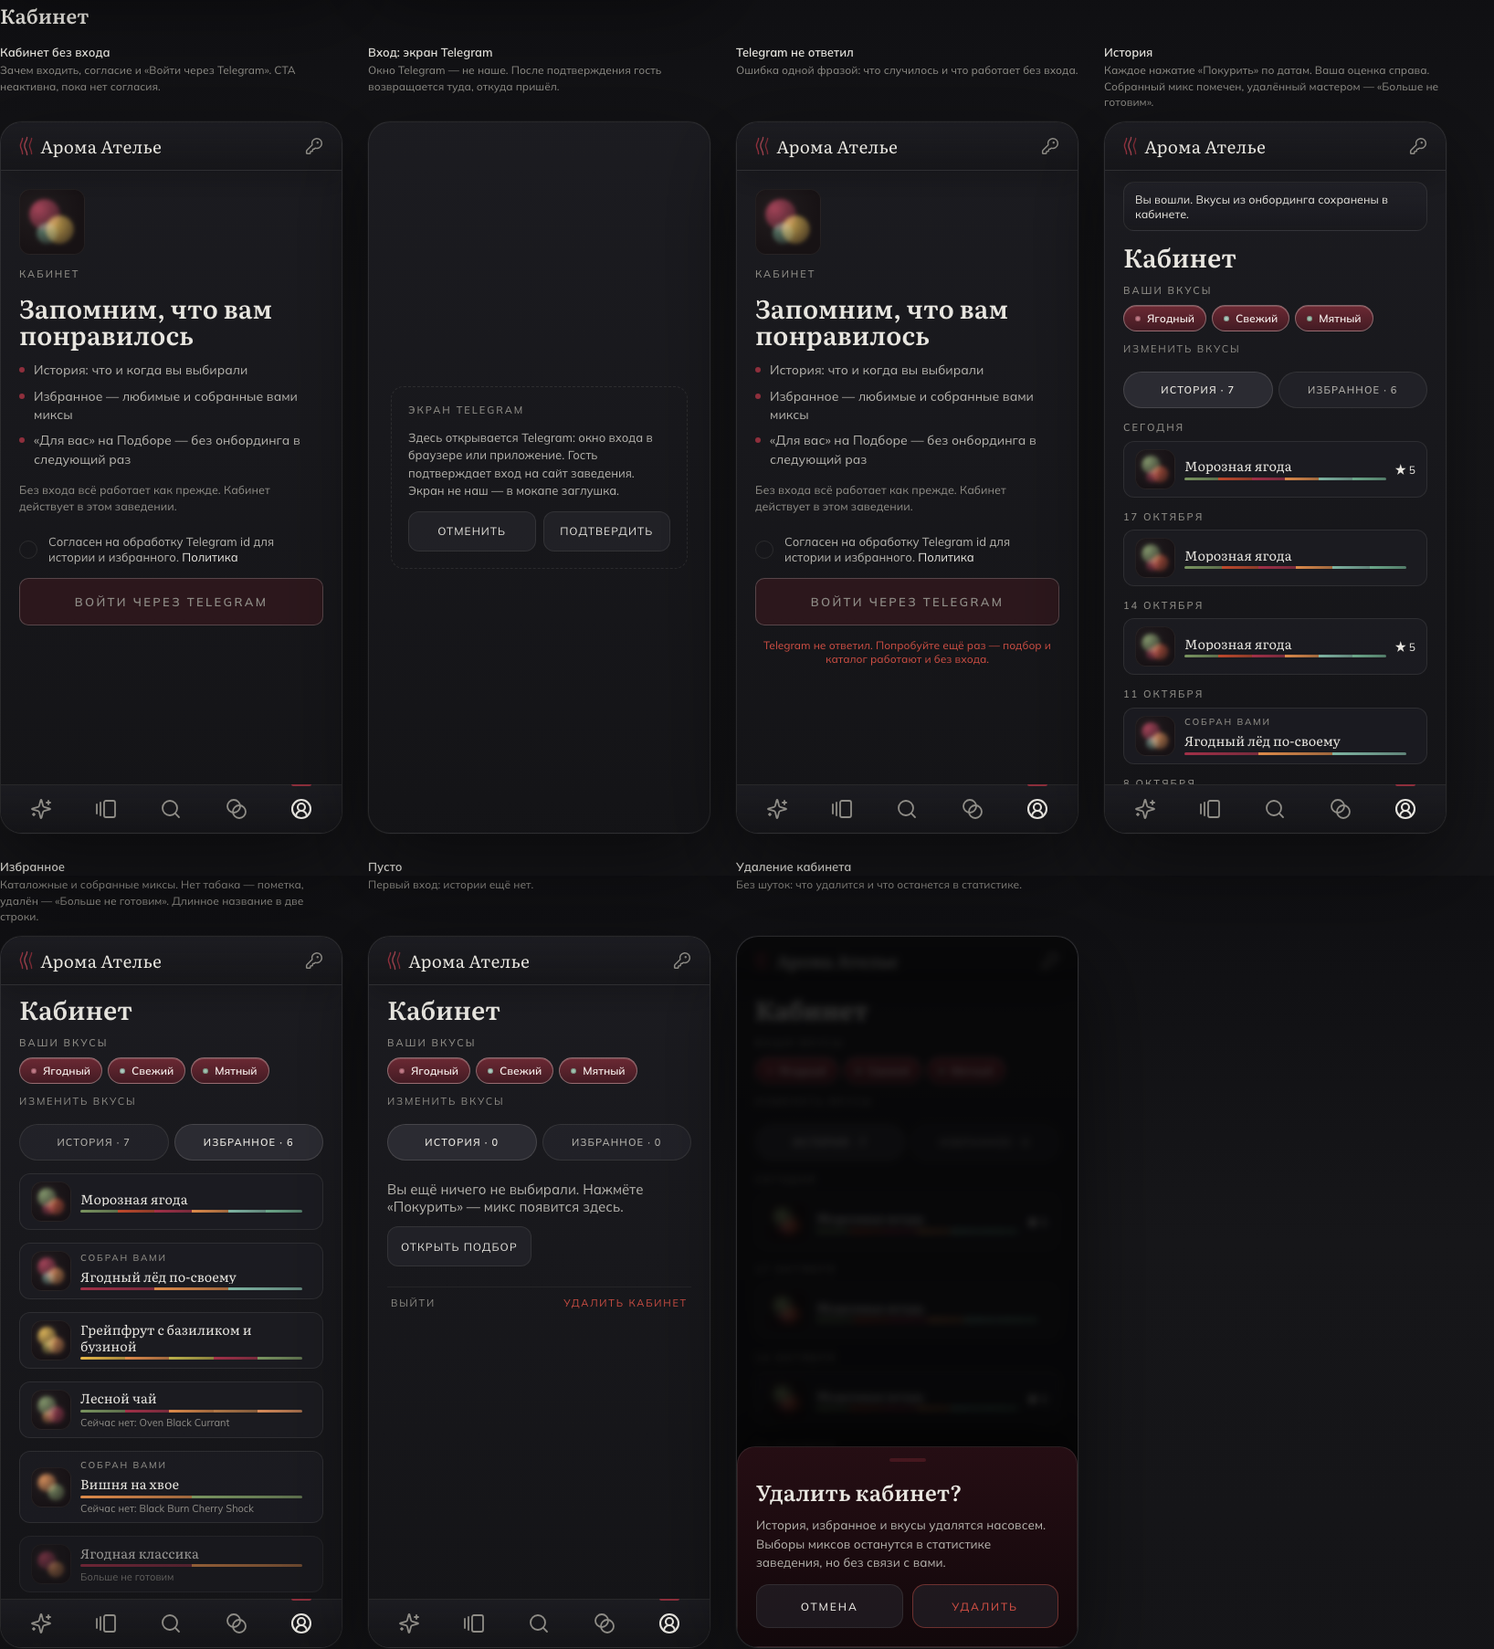
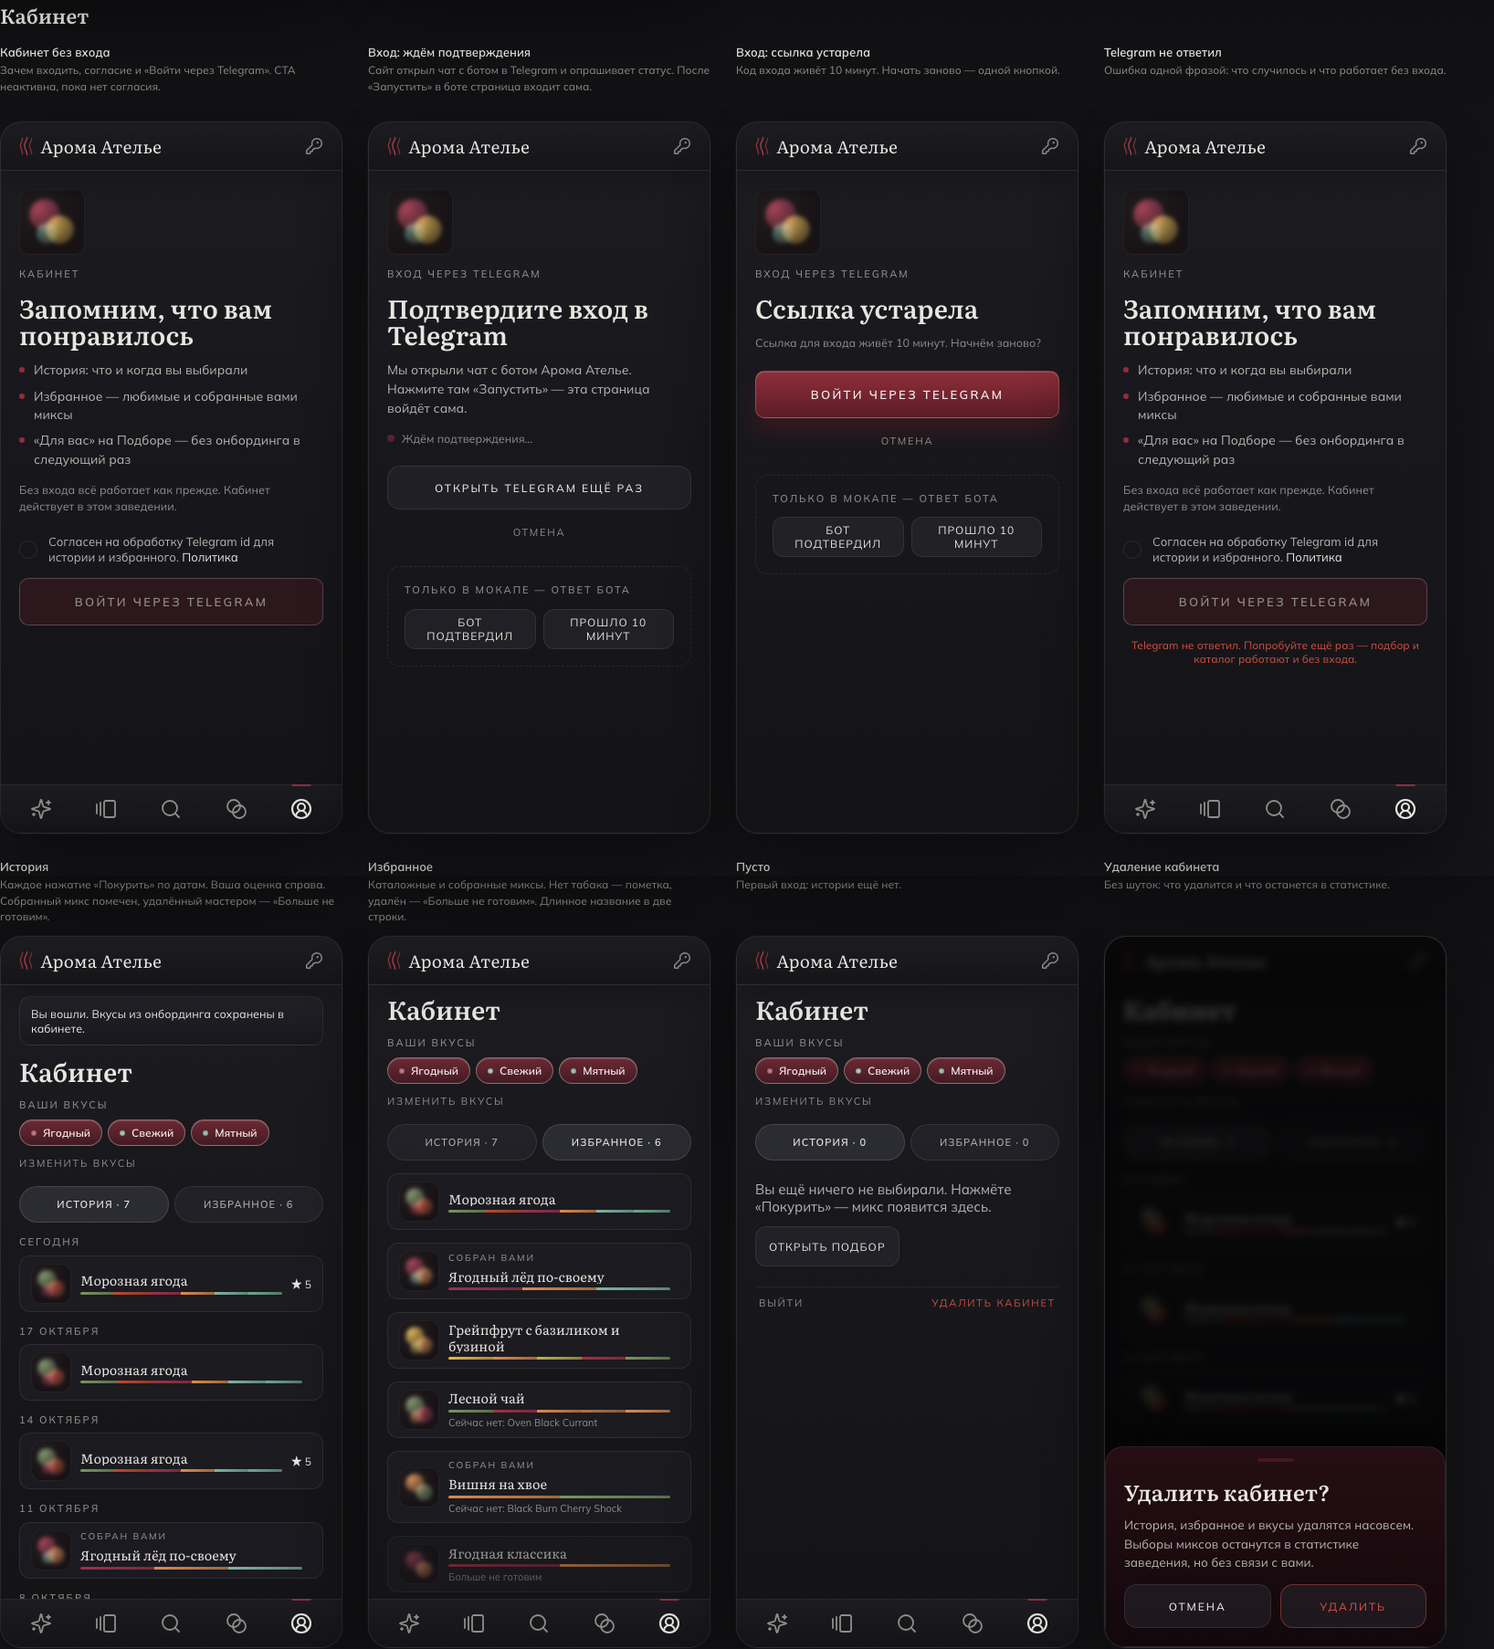
docs(design): кабинет гостя — экран ожидания входа через бота (#243)
Вместо заглушки окна Telegram: «Подтвердите вход в Telegram», опрос
статуса, «Открыть Telegram ещё раз», «Отмена»; «Ссылка устарела» через
10 минут; consent-required — ошибка на экране входа. Вход через бота по
ссылке — #239, #266.

diff --git a/design/design_handoff_guest_cabinet/board.jsx b/design/design_handoff_guest_cabinet/board.jsx
@@ -327,15 +327,39 @@ function CabinetAnon({ error, onLogin }) {
   );
 }
 
-function TelegramStub({ onConfirm, onCancel }) {
+// Ожидание входа (#239, #243): сайт открыл чат с ботом и опрашивает статус кода.
+// Внизу — имитация ответа бота для мокапа; в приложении её нет.
+function LoginWait({ expired: initialExpired = false, onConfirmed, onRestart, onCancel }) {
+  const [expired, setExpired] = React.useState(initialExpired);
   return (
-    <section className="tg-stub">
-      <div className="tg-stub-box">
-        <p className="aroma-caps">Экран Telegram</p>
-        <p className="tg-stub-text">Здесь открывается Telegram: окно входа в браузере или приложение. Гость подтверждает вход на сайт заведения. Экран не наш — в мокапе заглушка.</p>
+    <section className="cab-anon cab-wait">
+      <ProfileGlyph profiles={['berry', 'citrus', 'minty']} size={72} />
+      <p className="aroma-caps">Вход через Telegram</p>
+      {expired ? (
+        <>
+          <h1 className="cab-anon-title">Ссылка устарела</h1>
+          <p className="cab-anon-note">Ссылка для входа живёт 10 минут. Начнём заново?</p>
+          <div className="cab-anon-form">
+            <AromaCTA onClick={() => { setExpired(false); onRestart(); }}>Войти через Telegram</AromaCTA>
+            <button type="button" className="aroma-skip" onClick={onCancel}>Отмена</button>
+          </div>
+        </>
+      ) : (
+        <>
+          <h1 className="cab-anon-title">Подтвердите вход в Telegram</h1>
+          <p className="cab-wait-text">Мы открыли чат с ботом Арома Ателье. Нажмите там «Запустить» — эта страница войдёт сама.</p>
+          <p className="cab-wait-status" role="status"><span className="cab-wait-dot" aria-hidden />Ждём подтверждения…</p>
+          <div className="cab-anon-form">
+            <button type="button" className="aroma-ghost" onClick={() => {}}>Открыть Telegram ещё раз</button>
+            <button type="button" className="aroma-skip" onClick={onCancel}>Отмена</button>
+          </div>
+        </>
+      )}
+      <div className="tg-stub-box cab-wait-sim">
+        <p className="aroma-caps">Только в мокапе — ответ бота</p>
         <div className="tg-stub-actions">
-          <button type="button" className="aroma-ghost-sm" onClick={onCancel}>Отменить</button>
-          <button type="button" className="aroma-ghost-sm" onClick={onConfirm}>Подтвердить</button>
+          <button type="button" className="aroma-ghost-sm" onClick={onConfirmed}>Бот подтвердил</button>
+          <button type="button" className="aroma-ghost-sm" onClick={() => setExpired(true)}>Прошло 10 минут</button>
         </div>
       </div>
     </section>
@@ -573,7 +597,16 @@ function GuestPhone({ view: initialView = 'recs', logged: initialLogged = true, 
 
   let body;
   if (view === 'intro') body = <IntroReturning onLogin={login} onNext={() => setView('recs')} />;
-  else if (view === 'tg') body = <TelegramStub onConfirm={afterLogin} onCancel={() => setView('cabinet')} />;
+  else if (view === 'tg' || view === 'tg-expired') {
+    body = (
+      <>
+        <Topbar />
+        <main className="content">
+          <LoginWait expired={view === 'tg-expired'} onConfirmed={afterLogin} onRestart={() => setView('tg')} onCancel={() => setView('cabinet')} />
+        </main>
+      </>
+    );
+  }
   else if (view === 'confirm') body = <window.ConfirmationScreen mix={chosen} onDone={() => setView(logged ? 'cabinet' : 'recs')} />;
   else if (view === 'mixer') body = <StubScreen title="Миксер" text="«Намиксуй» не меняется. Собранный микс после «Покурить» попадает в историю вошедшего гостя." />;
   else {
@@ -641,7 +674,8 @@ const SHOTS = [
   { id: 'fy-mood', group: 'foryou', name: 'Под настроение · онбординг', note: '«Подобрать под настроение» под заголовком «Для вас». Обычный онбординг, сверху — что это только на этот визит.', props: { view: 'mood' } },
   { id: 'fy-mood-result', group: 'foryou', name: 'Под настроение · подбор', note: 'Подбор по онбордингу этого визита. «Для вас» и вкусы в кабинете не изменились, назад — одной ссылкой.', props: { view: 'mood-result', mood: ['citrus'] } },
   { id: 'cab-anon', group: 'cabinet', name: 'Кабинет без входа', note: 'Зачем входить, согласие и «Войти через Telegram». CTA неактивна, пока нет согласия.', props: { view: 'cabinet', logged: false } },
-  { id: 'cab-tg', group: 'cabinet', name: 'Вход: экран Telegram', note: 'Окно Telegram — не наше. После подтверждения гость возвращается туда, откуда пришёл.', props: { view: 'tg', logged: false } },
+  { id: 'cab-tg', group: 'cabinet', name: 'Вход: ждём подтверждения', note: 'Сайт открыл чат с ботом в Telegram и опрашивает статус. После «Запустить» в боте страница входит сама.', props: { view: 'tg', logged: false } },
+  { id: 'cab-tg-expired', group: 'cabinet', name: 'Вход: ссылка устарела', note: 'Код входа живёт 10 минут. Начать заново — одной кнопкой.', props: { view: 'tg-expired', logged: false } },
   { id: 'cab-tg-error', group: 'cabinet', name: 'Telegram не ответил', note: 'Ошибка одной фразой: что случилось и что работает без входа.', props: { view: 'cabinet', logged: false, tgError: true } },
   { id: 'cab-history', group: 'cabinet', name: 'История', note: 'Каждое нажатие «Покурить» по датам. Ваша оценка справа. Собранный микс помечен, удалённый мастером — «Больше не готовим».', props: { view: 'cabinet', toast: 'Вы вошли. Вкусы из онбординга сохранены в кабинете.' } },
   { id: 'cab-favorites', group: 'cabinet', name: 'Избранное', note: 'Каталожные и собранные миксы. Нет табака — пометка, удалён — «Больше не готовим». Длинное название в две строки.', props: { view: 'cabinet', cabTab: 'favorites' } },

diff --git a/design/design_handoff_guest_cabinet/mockups.html b/design/design_handoff_guest_cabinet/mockups.html
@@ -269,6 +269,14 @@ body{font-family:var(--font-body);color:var(--text-primary);overflow-x:hidden;ba
 
 .frame-label{min-height:74px}
 
+/* Ожидание входа через бота (#239, #243) */
+.cab-wait-text{margin:0;font-size:14px;line-height:1.5;color:var(--text-1)}
+.cab-wait-status{margin:0;display:inline-flex;align-items:center;gap:8px;font-size:12.5px;color:var(--text-2)}
+.cab-wait-dot{width:8px;height:8px;border-radius:999px;background:var(--accent);animation:cab-wait-pulse 1.6s ease-in-out infinite}
+@keyframes cab-wait-pulse{0%,100%{opacity:.35}50%{opacity:1}}
+@media (prefers-reduced-motion:reduce){.cab-wait-dot{animation:none}}
+.cab-wait-sim{width:100%;box-sizing:border-box;margin-top:12px}
+
 /* Вход: экран Telegram — заглушка */
 .tg-stub{flex:1 1 auto;display:grid;place-items:center;padding:24px}
 .tg-stub-box{display:grid;gap:12px;padding:18px;border:1px dashed var(--line);border-radius:var(--r-guest-card)}

diff --git a/design/design_handoff_guest_cabinet/README.md b/design/design_handoff_guest_cabinet/README.md
@@ -15,7 +15,7 @@ python3 -m http.server 8765 --bind 127.0.0.1
 - Доска — кликабельный прототип. Всё живое: нижняя панель, вкладки кабинета, карточки, сердечко, вход (экран Telegram — заглушка), выход и удаление.
 - `mockups.html#shot=<id>` — один телефон 375×780 без доски, для скриншотов в issue и PR. Доступные `id`:
   - «Для вас»: `fy-a`, `fy-b`, `fy-a-varied`, `fy-cold`, `fy-mood`, `fy-mood-result`;
-  - кабинет: `cab-anon`, `cab-tg`, `cab-tg-error`, `cab-history`, `cab-favorites`, `cab-empty`, `cab-delete`;
+  - кабинет: `cab-anon`, `cab-tg`, `cab-tg-expired`, `cab-tg-error`, `cab-history`, `cab-favorites`, `cab-empty`, `cab-delete`;
   - карточка микса: `sheet-fav`, `sheet-anon`, `sheet-stock`, `sheet-custom`;
   - вернувшийся гость: `returning`, `returning-after`.
 - `screens/` — снимки секций доски: `foryou.png`, `cabinet.png`, `sheet.png`, `returning.png`.
@@ -36,7 +36,15 @@ python3 -m http.server 8765 --bind 127.0.0.1
    - согласие — тот же чекбокс, что на гейте 18+: «Согласен на обработку Telegram id для истории и избранного. Политика»;
    - CTA «Войти через Telegram» неактивна, пока нет согласия. Кнопка в цветах системы, а не синяя телеграмная: акцент один;
    - Telegram не ответил или гость отменил вход → гость остаётся анонимом, ошибка под CTA: «Telegram не ответил. Попробуйте ещё раз — подбор и каталог работают и без входа.»
-3. **Вход** — Telegram Login. После подтверждения гость возвращается на экран, откуда пришёл. Ответы онбординга текущего прохождения переносятся в кабинет. Подтверждение — строка над кабинетом: «Вы вошли. Вкусы из онбординга сохранены в кабинете.»
+3. **Вход — через бота по ссылке** (#239, #266; виджет Telegram отвергнут после проверки на iPhone):
+   - «Войти через Telegram» → `POST /guest/auth/telegram/start` → сайт открывает `botUrl` (`https://t.me/aroma_atelier_client_bot?start=<код>`), приложение Telegram показывает чат с ботом;
+   - на сайте экран ожидания (`cab-tg`): знак, «Вход через Telegram», «Подтвердите вход в Telegram», «Мы открыли чат с ботом Арома Ателье. Нажмите там «Запустить» — эта страница войдёт сама.», строка «Ждём подтверждения…» с пульсирующей точкой (`--accent`, без анимации при `prefers-reduced-motion`), «Открыть Telegram ещё раз» (ghost) и «Отмена»; нижней панели нет;
+   - опрос `GET /guest/auth/telegram/status?code=` раз в 2 с; в скрытой вкладке опрос на паузе и сразу повторяется при возврате в браузер;
+   - `ok` → токен в `localStorage`, возврат на экран, откуда пришёл, строка «Вы вошли. Вкусы из онбординга сохранены в кабинете.»;
+   - `expired` (10 минут) → `cab-tg-expired`: «Ссылка устарела», «Ссылка для входа живёт 10 минут. Начнём заново?», «Войти через Telegram», «Отмена»;
+   - `consent-required` (вернувшийся гость, у которого кабинета нет) → экран `cab-anon` с ошибкой под CTA «Кабинета ещё нет — отметьте согласие и войдите снова.»;
+   - бот не настроен (`botUsername: null`) — пункта входа нет, «Кабинет» показывает только объяснение без кнопки;
+   - блок «Только в мокапе — ответ бота» на экране ожидания — имитация, в приложение не переносится.
 4. **Кабинет после входа** (`cab-history`, `cab-favorites`):
    - заголовок «Кабинет»;
    - «Ваши вкусы» — выбранные профили чипами и кнопка «Изменить вкусы», которая открывает онбординг заново;
@@ -94,7 +102,7 @@ python3 -m http.server 8765 --bind 127.0.0.1
 ## Что не реализовывать
 
 - Вариант B (`fy-b`) отвергнут и остаётся на доске для истории решения.
-- Переключатели доски и экран Telegram — только для согласования: настоящий экран входа показывает Telegram.
+- Переключатели доски и блок «Только в мокапе — ответ бота» — только для согласования.
 - Витрина, Каталог и Миксер не меняются, в мокапе это заглушки. Сердечко появляется в карточке микса, на каком бы экране её ни открыли.
 - «0 выборов» под героем подбора по онбордингу — так экран из кита показывает миксы без событий. Это не новое.
 
